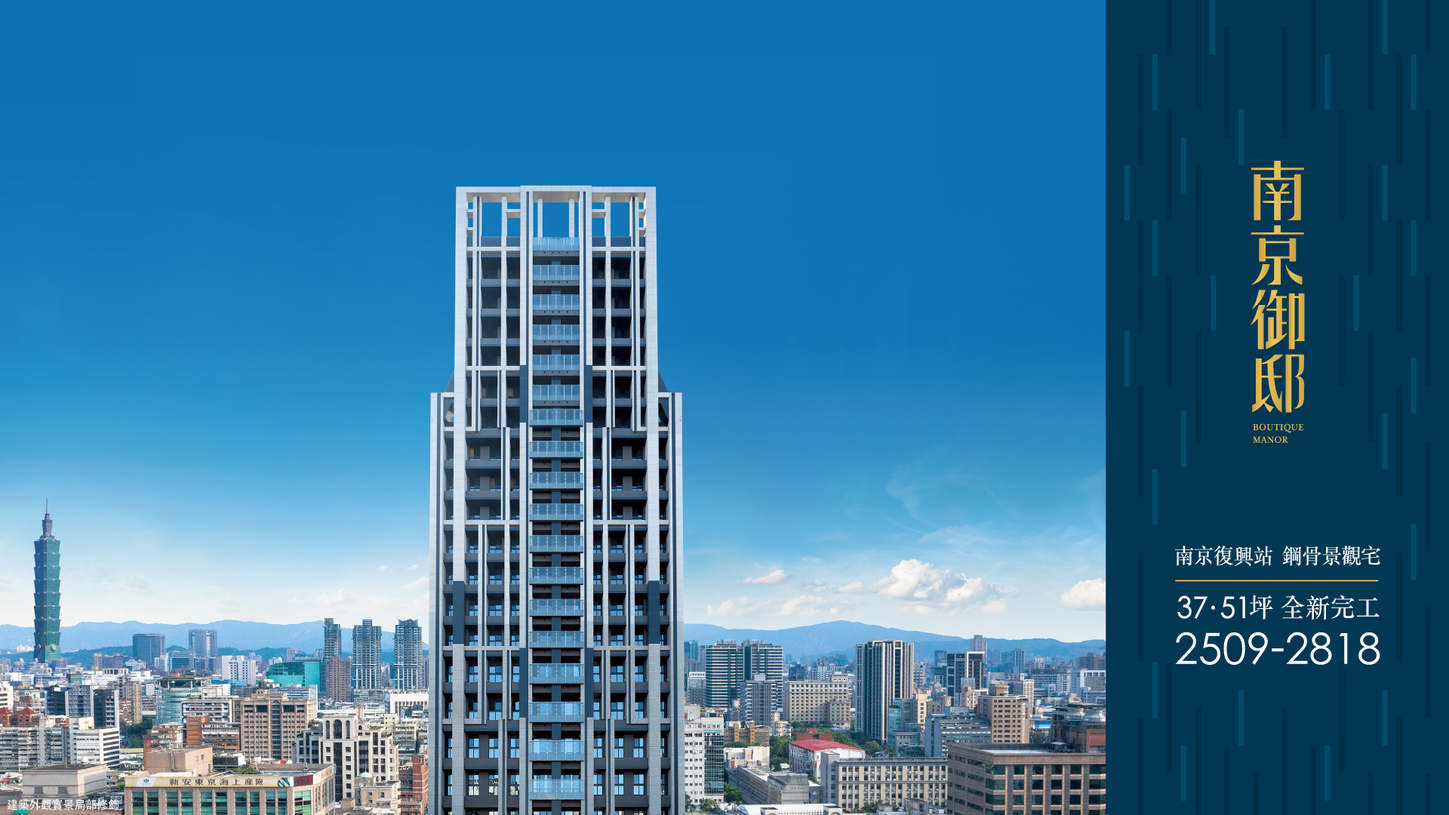
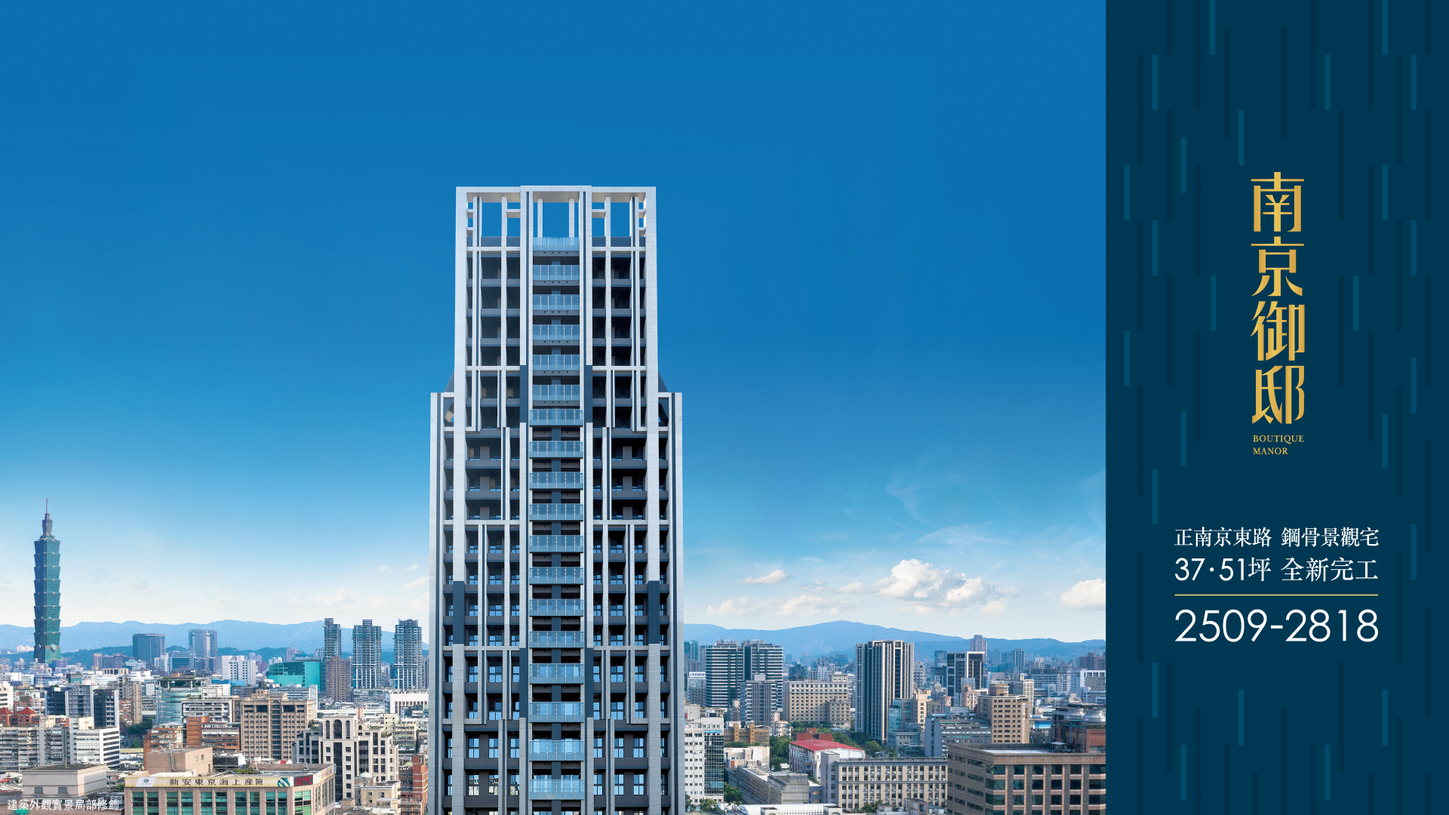
[Fix] 主視覺更換，修改文案

Changed region(s): [[0.8125, 0.6417, 0.9688, 0.825], [0.8438, 0.1833, 0.9062, 0.55]]

diff --git a/css/main.min.css b/css/main.min.css
@@ -1,2 +1,2 @@
-@font-face{font-family:MSungHK;src:url(../font/MSungHK-Medium.otf)}*,*::after,*::before{-webkit-box-sizing:border-box;box-sizing:border-box}html{font-size:16px}body{font-family:MSungHK, "微軟正黑體", "Microsoft JhengHei", "Century Gothic", CenturyGothic, AppleGothic, sans-serif}img{display:block}h1{font-family:MSungHK, "微軟正黑體", "Microsoft JhengHei", "Century Gothic", CenturyGothic, AppleGothic, sans-serif;font-weight:600;font-size:35px;color:#fff;letter-spacing:0.1px}h6{font-family:MSungHK, "微軟正黑體", "Microsoft JhengHei", "Century Gothic", CenturyGothic, AppleGothic, sans-serif;font-weight:300;font-size:16px;color:#fff}h3{margin-bottom:24px;color:#fff;font-size:32px;text-align:center}p{margin:0}.fontHei{font-family:"微軟正黑體", "Microsoft JhengHei", "Century Gothic", CenturyGothic, AppleGothic, sans-serif}.text_dark{color:#595757}.d_flex{display:-webkit-box;display:-ms-flexbox;display:flex;-webkit-box-pack:justify;-ms-flex-pack:justify;justify-content:space-between;-webkit-box-align:center;-ms-flex-align:center;align-items:center}.justify_start{-webkit-box-pack:start;-ms-flex-pack:start;justify-content:flex-start}.wrap{-ms-flex-wrap:wrap;flex-wrap:wrap}.bg_gold{background-color:#bf9d5a}.mt_3{margin-top:1.5rem}.mt_4{margin-top:2rem}.mb_3{margin-bottom:1.5rem}.mb_4{margin-bottom:2rem}.d_none{display:none !important}@media (max-width: 768px){.md_bg_gold{background-color:#bf9d5a}.d_md_none{display:none !important}.d_md_block{display:block !important}.d_md_block img{max-width:100%}.d_md_table{display:table !important}.d_md_table img{max-width:100%}.mb_md_0{margin-bottom:0}}#fp-nav{top:inherit;bottom:50px}#fp-nav ul li a span{background:#ffffff}.fp-controlArrow.fp-next{background-image:url("../images/desktop/Fillet_Right.png");border:none;width:52px;height:150px;opacity:0.5;right:0}.fp-controlArrow.fp-prev{background-image:url("../images/desktop/Fillet_Left.png");border:none;width:52px;height:150px;opacity:0.5;left:0}.fp-controlArrow.fp-next:hover{opacity:1}.fp-controlArrow.fp-prev:hover{opacity:1}@media screen and (max-width: 1280px){.fp-controlArrow.fp-next{border-width:25px 0 25px 21px}.fp-controlArrow.fp-prev{border-width:25px 21px 25px 0}}@media screen and (max-width: 768px){#fp-nav{display:none}}.Sec_img{position:relative;background-repeat:no-repeat;background-size:cover}.Sec0home{height:100vh;background-image:url(../images/desktop/s0bg.jpg);background-position:right bottom}.Sec0home_text{display:none}@media screen and (max-width: 900px){.Sec0home{background-image:url(../images/desktop/s0bg-md.jpg);background-position:center center}}@media screen and (max-width: 768px){.Sec0home_m{position:relative;height:100%;background-image:url(../images/mobile/m-s0bg-bg.jpg);background-position:55% center}.Sec0home_m::before{content:'';display:block;width:20%;max-width:120px;height:200px;background-image:url(../images/mobile/m-s0bg-1.png);background-repeat:no-repeat;background-size:contain;position:absolute;top:5%;left:5%;z-index:1}.Sec0home_m::after{content:'';display:block;width:50%;max-width:340px;height:180px;background-image:url(../images/mobile/m-s0bg-2.png);background-repeat:no-repeat;background-size:contain;position:absolute;top:5%;right:5%;z-index:1}.Sec0home_text{display:block;color:#fff;font-size:12px;position:absolute;bottom:48px;left:8px}}@media screen and (max-width: 480px){.Sec0home_m{background-position:center center;background-size:cover}.Sec0home_m::before{top:1rem;left:1rem}.Sec0home_m::after{top:1rem;right:1rem}}.p360{height:100%}.panorama-container{background-color:#183149}.panorama-container img{top:-40px}@media screen and (min-width: 1920px){.view360.slide{display:none}.Sec1img1{height:100vh;background-image:url(../images/desktop/s1/sec1img01.jpg);background-position:right -40px}}@media (orientation: landscape){.view360.slide{display:none}.Sec1img1{height:100vh;background-image:url(../images/desktop/s1/sec1img01.jpg);background-position:right -40px}}@media (orientation: portrait){.view360.slide{display:table}.Sec1img1{display:none}}@media screen and (max-width: 768px){.bus-md-bg{background-color:#183149}}.Sec2_img{height:100vh;position:relative;background-repeat:no-repeat;background-size:cover;background-position:left top}.Sec2img1{background-image:url(../images/desktop/s2/sec2img01.jpg)}.Sec2img2{background-image:url(../images/desktop/s2/sec2img02.jpg);background-position:center center}.Sec2img3{background-image:url(../images/desktop/s2/sec2img03.jpg)}.Sec2img4{background-image:url(../images/desktop/s2/sec2img04.jpg)}.Sec2img5{background-image:url(../images/desktop/s2/sec2img05.jpg);background-position:right top}.Sec3_img{height:100vh;position:relative;background-repeat:no-repeat;background-size:cover;background-position:left top}.Sec3img1{background-image:url(../images/desktop/s3/sec3img01.jpg)}.Sec3img2{background-image:url(../images/desktop/s3/sec3img02.jpg)}.Sec3img3{background-image:url(../images/desktop/s3/sec3img03.jpg)}.Sec3img4{background-image:url(../images/desktop/s3/sec3img04.jpg);background-position:right top}.Sec3img5{background-image:url(../images/desktop/s3/sec3img05.jpg)}.Sec3img6{background-image:url(../images/desktop/s3/sec3img06.jpg)}.Sec3img7{background-image:url(../images/desktop/s3/sec3img07.jpg)}.Sec3img8{background-image:url(../images/desktop/s3/sec3img08.jpg)}.Sec3img9{background-image:url(../images/desktop/s3/sec3img09.jpg);background-position:right top}.Sec3img10{background-image:url(../images/desktop/s3/sec3img10.jpg)}.Sec3img11{background-image:url(../images/desktop/s3/sec3img11.jpg)}.Sec3img12{background-image:url(../images/desktop/s3/sec3img12.jpg)}.Sec4_img{height:100vh;position:relative;background-repeat:no-repeat;background-size:cover;background-position:center top}.Sec4img1{background-image:url(../images/desktop/s4/sec4img01.jpg)}.Sec4img2{background-image:url(../images/desktop/s4/sec4img02.jpg)}.Sec4img3{background-image:url(../images/desktop/s4/sec4img03.jpg)}.Sec4img4{background-image:url(../images/desktop/s4/sec4img04.jpg)}.desktop_slide{width:90%;max-width:calc(100% -280px)}.content_box{-webkit-box-flex:1;-ms-flex:1 1 280px;flex:1 1 280px;max-width:280px;height:100vh;display:-webkit-box;display:-ms-flexbox;display:flex;-webkit-box-orient:vertical;-webkit-box-direction:normal;-ms-flex-direction:column;flex-direction:column;-webkit-box-pack:center;-ms-flex-pack:center;justify-content:center;-webkit-box-align:center;-ms-flex-align:center;align-items:center;padding:0 48px;color:#fff;background-color:#003752}.content_box .vertical_write{display:-webkit-box;display:-ms-flexbox;display:flex;-webkit-box-align:center;-ms-flex-align:center;align-items:center;margin-bottom:48px;font-size:24px;-webkit-writing-mode:vertical-lr;-ms-writing-mode:tb-lr;writing-mode:vertical-lr;line-height:1.5}.border_content{padding:48px 0;border-top:1px solid #fff;border-bottom:1px solid #fff;font-weight:normal;text-align:justify;line-height:2}@media (max-width: 768px){.desktop_slide{width:100%}}.Sec5_img{height:100vh;position:relative;background-repeat:no-repeat;background-size:cover;background-position:left top}.Sec5img1{background-image:url(../images/desktop/s5/sec5img01.jpg)}.Sec5img2{background-image:url(../images/desktop/s5/sec5img02.jpg)}.Sec5img3{background-image:url(../images/desktop/s5/sec5img03.jpg)}.Sec5img4{background-image:url(../images/desktop/s5/sec5img04.jpg)}.group_slide_container{display:-webkit-box;display:-ms-flexbox;display:flex}.Sec6_img{-webkit-box-flex:1;-ms-flex:1 1 calc(100% - 280px);flex:1 1 calc(100% - 280px);height:100vh;position:relative;background-repeat:no-repeat;background-size:cover;background-position:right top}.Sec6img1{background-image:url(../images/desktop/s6/sec6img01.jpg)}.Sec6img2{background-image:url(../images/desktop/s6/sec6img02.jpg)}.Sec6img3{background-image:url(../images/desktop/s6/sec6img03.jpg)}.Sec6img4{background-image:url(../images/desktop/s6/sec6img04.jpg)}.Sec6img5{background-image:url(../images/desktop/s6/sec6img05.jpg)}.Sec6_content{-webkit-box-flex:1;-ms-flex:1 1 280px;flex:1 1 280px;max-width:280px;height:100vh;display:-webkit-box;display:-ms-flexbox;display:flex;position:relative;-webkit-box-pack:center;-ms-flex-pack:center;justify-content:center;-webkit-box-align:center;-ms-flex-align:center;align-items:center;-webkit-box-orient:vertical;-webkit-box-direction:normal;-ms-flex-direction:column;flex-direction:column}.main_content{max-width:200px;margin-bottom:3rem;color:#595757}.main_content img{max-width:100%}.Sec6_content_img{margin-bottom:1rem}.Sec6_content_title{margin-bottom:1rem;font-size:20px}.Sec6_content_title.bd_bottom{padding-bottom:1rem;border-bottom:1px solid #bf9d5a}.Sec6_content_title span{letter-spacing:-2px}.Sec6_content_text{font-size:14px;line-height:1.5;text-align:justify}.pos_title{width:100%;max-width:200px;color:#bf9d5a;font-size:26px;line-height:1;white-space:nowrap;position:absolute;bottom:7%;letter-spacing:-1.5px}.pos_title.init_space{letter-spacing:initial}@media screen and (max-width: 768px){.section_md_bg{background-color:#bf9d5a}.group_slide img{max-width:100%}}.slide_content{max-width:460px;position:absolute;color:#fff;top:5rem}.slide_content.pos_right{right:3.5rem}.slide_content.pos_left{left:3.5rem}.slide_content.pos_bottom{top:initial;bottom:6rem}.slide_content .slide_title{margin-bottom:1.5rem;font-size:24px}.slide_content .slide_text{font-size:14px;line-height:1.8}.slide_content .slide_heading{font-size:32px}.slide_content .slide_heading_gold{color:#bf9d5a;font-size:52px;line-height:1}@media screen and (max-width: 768px){.card_heading{position:absolute;bottom:4rem;left:1.5rem}.card_heading .slide_heading{font-size:20px;color:#fff}.card_heading .slide_heading_gold{color:#bf9d5a;font-size:36px;line-height:1;letter-spacing:-1px}}.bg_repeat{background:url(../images/desktop/Bg_PC_01.jpg) center top repeat-y;background-size:contain}.intro{margin-bottom:100px}.intro a{color:#ffcc00}.table_wrapper{max-width:680px;margin:0 auto}.table_wrapper .table{width:100%}.table_wrapper h3{margin:0;color:#fff;font-size:24px;line-height:2.4rem;text-align:left}.table_wrapper td{color:#fff;border-bottom:1px solid rgba(255,255,255,0.5);font-size:18px;line-height:2.4rem}.google_map{max-width:100%;height:30vh;position:relative}.google_map iframe{width:100%;max-width:100%;height:100%;position:absolute;top:0;bottom:0;left:0;right:0}@media (max-width: 768px){.intro{padding-top:100px;padding-left:1.5rem;padding-right:1.5rem}.google_map{height:30vh}}@media (max-width: 480px){.table_wrapper h3{font-size:18px}.table_wrapper tbody tr td{padding:8px 0;font-size:12px}.intro{padding:0 1rem;margin-bottom:0}}.form_wrapper{max-width:710px;margin:0 auto}.form_title{margin-bottom:2rem;color:#fff;font-weight:bold}.form-control{height:auto;margin-bottom:1rem;font-size:1rem}.policy{margin-bottom:1rem;color:#fff;line-height:1.5}.form-check-label{margin-bottom:1.5rem;color:#fff;font-weight:normal;cursor:pointer}.form-check-label a{padding-left:4px;color:#ffcc00}.form-check-label a:hover{text-decoration:underline}.btn{color:#183149;border-radius:4px;background-color:#fff;font-family:MSungHK, "微軟正黑體", "Microsoft JhengHei", "Century Gothic", CenturyGothic, AppleGothic, sans-serif;font-size:20px;font-weight:bold;-webkit-transition:all .1s ease-in;transition:all .1s ease-in;cursor:pointer}.btn:hover{color:#183149;background-color:#ffcc00}.btn_secondary{color:#fff;background-color:#337ab7;border:0;font-weight:normal}@media (max-width: 996px){.btn_secondary{margin-bottom:1rem}}@media (max-width: 480px){.form_title{margin:0;margin-bottom:1rem;font-size:22px}.form-control,.btn_secondary{margin-bottom:.5rem}.form-control,.btn,.btn_secondary{font-size:15px}.policy{margin-bottom:8px;font-size:12px;letter-spacing:-1px}.form-check-label{margin-bottom:12px;font-size:12px}}.card{padding:1.5rem;color:#595757;background-color:#fff}.card_title{margin-bottom:1.5rem;font-size:1.6rem;text-align:center;line-height:1.5}.card_content{margin-bottom:1rem;padding:0 2rem;font-size:1.1rem;line-height:1.6}.card_gold{padding:1.5rem;color:#fff;background-color:#BF9D5A}.card_gold .card_title{margin-top:2rem}.card_gold .card_title.extra{margin-top:.5rem}.card_gold .card_content{margin-bottom:2rem}.card_bg_blue{color:#fff;background-color:#183149}@media (max-width: 480px){.card,.card_gold{padding:1rem}.card_title{margin-bottom:1rem;font-size:18px}.card_content{padding:0 1rem;font-size:12px}.card_gold .card_title{margin-top:0}.letter_space{letter-spacing:-2px}.letter_space__plus{letter-spacing:-4px}.letter_space__plus2{letter-spacing:-5px}}.img_grid{-webkit-box-flex:1;-ms-flex:1 1 calc(100% - 280px);flex:1 1 calc(100% - 280px);height:100vh;display:-ms-grid;display:grid;grid-gap:4px;-ms-grid-columns:1fr 1fr 1fr 1fr;grid-template-columns:1fr 1fr 1fr 1fr;-ms-grid-rows:1fr 1fr 1fr 1fr;grid-template-rows:1fr 1fr 1fr 1fr;grid-template-areas:"G1 G1 G2 G2" "G1 G1 G2 G2" "G1 G1 G3 G3" "G1 G1 G3 G3"}.img_grid__2{-webkit-box-flex:1;-ms-flex:1 1 calc(100% - 280px);flex:1 1 calc(100% - 280px);height:100vh;display:-ms-grid;display:grid;grid-gap:4px;-ms-grid-columns:1fr 1fr 1fr 1fr;grid-template-columns:1fr 1fr 1fr 1fr;-ms-grid-rows:1fr 1fr 1fr 1fr;grid-template-rows:1fr 1fr 1fr 1fr;grid-template-areas:"G1 G1 G3 G3" "G1 G1 G3 G3" "G2 G2 G4 G4" "G2 G2 G4 G4"}.img_grid__3{-webkit-box-flex:1;-ms-flex:1 1 calc(100% - 280px);flex:1 1 calc(100% - 280px);height:100vh;display:-ms-grid;display:grid;grid-gap:4px;-ms-grid-columns:1fr 1fr 1fr 1fr;grid-template-columns:1fr 1fr 1fr 1fr;-ms-grid-rows:1fr 1fr 1fr 1fr;grid-template-rows:1fr 1fr 1fr 1fr;grid-template-areas:"G1 G1 G2 G2" "G1 G1 G2 G2" "G1 G1 G2 G2" "G1 G1 G2 G2"}.g_img{background-repeat:no-repeat;background-position:50% 50%;background-size:cover;overflow:hidden}.g_img img{width:auto;height:100%}.g1_1{-ms-grid-row:1;-ms-grid-row-span:4;-ms-grid-column:1;-ms-grid-column-span:2;grid-area:G1}.g1_2{-ms-grid-row:1;-ms-grid-row-span:4;-ms-grid-column:3;-ms-grid-column-span:2;grid-area:G2}.g1_3{-ms-grid-row:1;-ms-grid-row-span:2;-ms-grid-column:3;-ms-grid-column-span:2;grid-area:G3}.g1_4{-ms-grid-row:3;-ms-grid-row-span:2;-ms-grid-column:3;-ms-grid-column-span:2;grid-area:G4}.p1img_1{background-image:url(../images/desktop/s6/g1-1.jpg)}.p1img_2{background-image:url(../images/desktop/s6/g1-2.jpg)}.p1img_3{background-image:url(../images/desktop/s6/g1-3.jpg)}.p2img_1{background-image:url(../images/desktop/s6/g2-1.jpg)}.p2img_2{background-image:url(../images/desktop/s6/g2-2.jpg)}.p2img_3{background-image:url(../images/desktop/s6/g2-3.jpg)}.p3img_1{background-image:url(../images/desktop/s6/g3-1.jpg)}.p3img_2{background-image:url(../images/desktop/s6/g3-2.jpg)}.p3img_3{background-image:url(../images/desktop/s6/g3-3.jpg)}.p3img_4{background-image:url(../images/desktop/s6/g3-4.jpg)}.p4img_1{background-image:url(../images/desktop/s6/g4-1.jpg)}.p4img_2{background-image:url(../images/desktop/s6/g4-2.jpg)}.p4img_3{background-image:url(../images/desktop/s6/g4-3.jpg)}.p5img_1{background-image:url(../images/desktop/s6/g5-1.jpg)}.p5img_2{background-image:url(../images/desktop/s6/g5-2.jpg)}.footer{display:-webkit-box;display:-ms-flexbox;display:flex;-webkit-box-pack:justify;-ms-flex-pack:justify;justify-content:space-between;-webkit-box-align:center;-ms-flex-align:center;align-items:center;width:100%;height:40px;padding:0 48px;position:fixed;bottom:0;background-color:#183149;border-top:1px solid #ffffff;text-align:right;z-index:999}.footer ul{margin:0}.footer ul li{display:inline-block;font-size:17px;color:#ffffff;padding:0 4px;font-family:MSungHK, "微軟正黑體", "Microsoft JhengHei", "Century Gothic", CenturyGothic, AppleGothic, sans-serif}.footer ul li:first-of-type{padding-right:10px;border-right:1px solid #e5c058}.footer a{font-size:17px;color:#ffffff;text-decoration:none}.logo{width:128px;height:auto}.logo img{width:100%;height:100%;-o-object-fit:contain;object-fit:contain}@media screen and (max-width: 768px){.footer{padding:0 24px}}@media screen and (max-width: 480px){.footer{-webkit-box-pack:center;-ms-flex-pack:center;justify-content:center;padding:0 8px}.logo{display:none}}
+@font-face{font-family:MSungHK;src:url(../font/MSungHK-Medium.otf)}*,*::after,*::before{-webkit-box-sizing:border-box;box-sizing:border-box}html{font-size:16px}body{font-family:MSungHK, "微軟正黑體", "Microsoft JhengHei", "Century Gothic", CenturyGothic, AppleGothic, sans-serif}img{display:block}h1{font-family:MSungHK, "微軟正黑體", "Microsoft JhengHei", "Century Gothic", CenturyGothic, AppleGothic, sans-serif;font-weight:600;font-size:35px;color:#fff;letter-spacing:0.1px}h6{font-family:MSungHK, "微軟正黑體", "Microsoft JhengHei", "Century Gothic", CenturyGothic, AppleGothic, sans-serif;font-weight:300;font-size:16px;color:#fff}h3{margin-bottom:24px;color:#fff;font-size:32px;text-align:center}p{margin:0}.fontHei{font-family:"微軟正黑體", "Microsoft JhengHei", "Century Gothic", CenturyGothic, AppleGothic, sans-serif}.text_dark{color:#595757}.d_flex{display:-webkit-box;display:-ms-flexbox;display:flex;-webkit-box-pack:justify;-ms-flex-pack:justify;justify-content:space-between;-webkit-box-align:center;-ms-flex-align:center;align-items:center}.justify_start{-webkit-box-pack:start;-ms-flex-pack:start;justify-content:flex-start}.wrap{-ms-flex-wrap:wrap;flex-wrap:wrap}.bg_gold{background-color:#bf9d5a}.mt_3{margin-top:1.5rem}.mt_4{margin-top:2rem}.mb_3{margin-bottom:1.5rem}.mb_4{margin-bottom:2rem}.d_none{display:none !important}@media (max-width: 768px){.md_bg_gold{background-color:#bf9d5a}.d_md_none{display:none !important}.d_md_block{display:block !important}.d_md_block img{max-width:100%}.d_md_table{display:table !important}.d_md_table img{max-width:100%}.mb_md_0{margin-bottom:0}}#fp-nav{top:inherit;bottom:50px}#fp-nav ul li a span{background:#ffffff}.fp-controlArrow.fp-next{background-image:url("../images/desktop/Fillet_Right.png");border:none;width:52px;height:150px;opacity:0.5;right:0}.fp-controlArrow.fp-prev{background-image:url("../images/desktop/Fillet_Left.png");border:none;width:52px;height:150px;opacity:0.5;left:0}.fp-controlArrow.fp-next:hover{opacity:1}.fp-controlArrow.fp-prev:hover{opacity:1}@media screen and (max-width: 1280px){.fp-controlArrow.fp-next{border-width:25px 0 25px 21px}.fp-controlArrow.fp-prev{border-width:25px 21px 25px 0}}@media screen and (max-width: 768px){#fp-nav{display:none}}.Sec_img{position:relative;background-repeat:no-repeat;background-size:cover}.Sec0home{height:100vh;background-image:url(../images/desktop/s0bg.jpg);background-position:right bottom}.Sec0home_text{display:none}@media screen and (max-width: 900px){.Sec0home{background-image:url(../images/desktop/s0bg-md.jpg);background-position:center center}}@media screen and (max-width: 768px){.Sec0home_m{position:relative;height:100%;background-image:url(../images/mobile/m-s0bg-bg.jpg);background-position:55% center}.Sec0home_m::before{content:'';display:block;width:20%;max-width:120px;height:200px;background-image:url(../images/mobile/m-s0bg-1.png);background-repeat:no-repeat;background-size:contain;position:absolute;top:5%;left:5%;z-index:1}.Sec0home_m::after{content:'';display:block;width:50%;max-width:340px;height:180px;background-image:url(../images/mobile/m-s0bg-2.png);background-repeat:no-repeat;background-size:contain;position:absolute;top:5%;right:5%;z-index:1}.Sec0home_text{display:block;color:#fff;font-size:12px;position:absolute;bottom:48px;left:8px}}@media screen and (max-width: 480px){.Sec0home_m{background-position:center center;background-size:cover}.Sec0home_m::before{top:1rem;left:1rem;margin:10px}.Sec0home_m::after{top:1rem;right:1rem}}.p360{height:100%}.panorama-container{background-color:#183149}.panorama-container img{top:-40px}@media screen and (min-width: 1920px){.view360.slide{display:none}.Sec1img1{height:100vh;background-image:url(../images/desktop/s1/sec1img01.jpg);background-position:right -40px}}@media (orientation: landscape){.view360.slide{display:none}.Sec1img1{height:100vh;background-image:url(../images/desktop/s1/sec1img01.jpg);background-position:right -40px}}@media (orientation: portrait){.view360.slide{display:table}.Sec1img1{display:none}}@media screen and (max-width: 768px){.bus-md-bg{background-color:#183149}}.Sec2_img{height:100vh;position:relative;background-repeat:no-repeat;background-size:cover;background-position:left top}.Sec2img1{background-image:url(../images/desktop/s2/sec2img01.jpg)}.Sec2img2{background-image:url(../images/desktop/s2/sec2img02.jpg);background-position:center center}.Sec2img3{background-image:url(../images/desktop/s2/sec2img03.jpg)}.Sec2img4{background-image:url(../images/desktop/s2/sec2img04.jpg)}.Sec2img5{background-image:url(../images/desktop/s2/sec2img05.jpg);background-position:right top}.Sec3_img{height:100vh;position:relative;background-repeat:no-repeat;background-size:cover;background-position:left top}.Sec3img1{background-image:url(../images/desktop/s3/sec3img01.jpg)}.Sec3img2{background-image:url(../images/desktop/s3/sec3img02.jpg)}.Sec3img3{background-image:url(../images/desktop/s3/sec3img03.jpg)}.Sec3img4{background-image:url(../images/desktop/s3/sec3img04.jpg);background-position:right top}.Sec3img5{background-image:url(../images/desktop/s3/sec3img05.jpg)}.Sec3img6{background-image:url(../images/desktop/s3/sec3img06.jpg)}.Sec3img7{background-image:url(../images/desktop/s3/sec3img07.jpg)}.Sec3img8{background-image:url(../images/desktop/s3/sec3img08.jpg)}.Sec3img9{background-image:url(../images/desktop/s3/sec3img09.jpg);background-position:right top}.Sec3img10{background-image:url(../images/desktop/s3/sec3img10.jpg)}.Sec3img11{background-image:url(../images/desktop/s3/sec3img11.jpg)}.Sec3img12{background-image:url(../images/desktop/s3/sec3img12.jpg)}.Sec4_img{height:100vh;position:relative;background-repeat:no-repeat;background-size:cover;background-position:center top}.Sec4img1{background-image:url(../images/desktop/s4/sec4img01.jpg)}.Sec4img2{background-image:url(../images/desktop/s4/sec4img02.jpg)}.Sec4img3{background-image:url(../images/desktop/s4/sec4img03.jpg)}.Sec4img4{background-image:url(../images/desktop/s4/sec4img04.jpg)}.desktop_slide{width:90%;max-width:calc(100% -280px)}.content_box{-webkit-box-flex:1;-ms-flex:1 1 280px;flex:1 1 280px;max-width:280px;height:100vh;display:-webkit-box;display:-ms-flexbox;display:flex;-webkit-box-orient:vertical;-webkit-box-direction:normal;-ms-flex-direction:column;flex-direction:column;-webkit-box-pack:center;-ms-flex-pack:center;justify-content:center;-webkit-box-align:center;-ms-flex-align:center;align-items:center;padding:0 48px;color:#fff;background-color:#003752}.content_box .vertical_write{display:-webkit-box;display:-ms-flexbox;display:flex;-webkit-box-align:center;-ms-flex-align:center;align-items:center;margin-bottom:48px;font-size:24px;-webkit-writing-mode:vertical-lr;-ms-writing-mode:tb-lr;writing-mode:vertical-lr;line-height:1.5}.border_content{padding:48px 0;border-top:1px solid #fff;border-bottom:1px solid #fff;font-weight:normal;text-align:justify;line-height:2}@media (max-width: 768px){.desktop_slide{width:100%}}.Sec5_img{height:100vh;position:relative;background-repeat:no-repeat;background-size:cover;background-position:left top}.Sec5img1{background-image:url(../images/desktop/s5/sec5img01.jpg)}.Sec5img2{background-image:url(../images/desktop/s5/sec5img02.jpg)}.Sec5img3{background-image:url(../images/desktop/s5/sec5img03.jpg)}.Sec5img4{background-image:url(../images/desktop/s5/sec5img04.jpg)}.group_slide_container{display:-webkit-box;display:-ms-flexbox;display:flex}.Sec6_img{-webkit-box-flex:1;-ms-flex:1 1 calc(100% - 280px);flex:1 1 calc(100% - 280px);height:100vh;position:relative;background-repeat:no-repeat;background-size:cover;background-position:right top}.Sec6img1{background-image:url(../images/desktop/s6/sec6img01.jpg)}.Sec6img2{background-image:url(../images/desktop/s6/sec6img02.jpg)}.Sec6img3{background-image:url(../images/desktop/s6/sec6img03.jpg)}.Sec6img4{background-image:url(../images/desktop/s6/sec6img04.jpg)}.Sec6img5{background-image:url(../images/desktop/s6/sec6img05.jpg)}.Sec6_content{-webkit-box-flex:1;-ms-flex:1 1 280px;flex:1 1 280px;max-width:280px;height:100vh;display:-webkit-box;display:-ms-flexbox;display:flex;position:relative;-webkit-box-pack:center;-ms-flex-pack:center;justify-content:center;-webkit-box-align:center;-ms-flex-align:center;align-items:center;-webkit-box-orient:vertical;-webkit-box-direction:normal;-ms-flex-direction:column;flex-direction:column}.main_content{max-width:200px;margin-bottom:3rem;color:#595757}.main_content img{max-width:100%}.Sec6_content_img{margin-bottom:1rem}.Sec6_content_title{margin-bottom:1rem;font-size:20px}.Sec6_content_title.bd_bottom{padding-bottom:1rem;border-bottom:1px solid #bf9d5a}.Sec6_content_title span{letter-spacing:-2px}.Sec6_content_text{font-size:14px;line-height:1.5;text-align:justify}.pos_title{width:100%;max-width:200px;color:#bf9d5a;font-size:26px;line-height:1;white-space:nowrap;position:absolute;bottom:7%;letter-spacing:-1.5px}.pos_title.init_space{letter-spacing:initial}@media screen and (max-width: 768px){.section_md_bg{background-color:#bf9d5a}.group_slide img{max-width:100%}}.slide_content{max-width:460px;position:absolute;color:#fff;top:5rem}.slide_content.pos_right{right:3.5rem}.slide_content.pos_left{left:3.5rem}.slide_content.pos_bottom{top:initial;bottom:6rem}.slide_content .slide_title{margin-bottom:1.5rem;font-size:24px}.slide_content .slide_text{font-size:14px;line-height:1.8}.slide_content .slide_heading{font-size:32px}.slide_content .slide_heading_gold{color:#bf9d5a;font-size:52px;line-height:1}@media screen and (max-width: 768px){.card_heading{position:absolute;bottom:4rem;left:1.5rem}.card_heading .slide_heading{font-size:20px;color:#fff}.card_heading .slide_heading_gold{color:#bf9d5a;font-size:36px;line-height:1;letter-spacing:-1px}}.bg_repeat{background:url(../images/desktop/Bg_PC_01.jpg) center top repeat-y;background-size:contain}.intro{margin-bottom:100px}.intro a{color:#ffcc00}.table_wrapper{max-width:680px;margin:0 auto}.table_wrapper .table{width:100%}.table_wrapper h3{margin:0;color:#fff;font-size:24px;line-height:2.4rem;text-align:left}.table_wrapper td{color:#fff;border-bottom:1px solid rgba(255,255,255,0.5);font-size:18px;line-height:2.4rem}.google_map{max-width:100%;height:30vh;position:relative}.google_map iframe{width:100%;max-width:100%;height:100%;position:absolute;top:0;bottom:0;left:0;right:0}@media (max-width: 768px){.intro{padding-top:100px;padding-left:1.5rem;padding-right:1.5rem}.google_map{height:30vh}}@media (max-width: 480px){.table_wrapper h3{font-size:18px}.table_wrapper tbody tr td{padding:8px 0;font-size:12px}.intro{padding:0 1rem;margin-bottom:0}}.form_wrapper{max-width:710px;margin:0 auto}.form_title{margin-bottom:2rem;color:#fff;font-weight:bold}.form-control{height:auto;margin-bottom:1rem;font-size:1rem}.policy{margin-bottom:1rem;color:#fff;line-height:1.5}.form-check-label{margin-bottom:1.5rem;color:#fff;font-weight:normal;cursor:pointer}.form-check-label a{padding-left:4px;color:#ffcc00}.form-check-label a:hover{text-decoration:underline}.btn{color:#183149;border-radius:4px;background-color:#fff;font-family:MSungHK, "微軟正黑體", "Microsoft JhengHei", "Century Gothic", CenturyGothic, AppleGothic, sans-serif;font-size:20px;font-weight:bold;-webkit-transition:all .1s ease-in;transition:all .1s ease-in;cursor:pointer}.btn:hover{color:#183149;background-color:#ffcc00}.btn_secondary{color:#fff;background-color:#337ab7;border:0;font-weight:normal}@media (max-width: 996px){.btn_secondary{margin-bottom:1rem}}@media (max-width: 480px){.form_title{margin:0;margin-bottom:1rem;font-size:22px}.form-control,.btn_secondary{margin-bottom:.5rem}.form-control,.btn,.btn_secondary{font-size:15px}.policy{margin-bottom:8px;font-size:12px;letter-spacing:-1px}.form-check-label{margin-bottom:12px;font-size:12px}}.card{padding:1.5rem;color:#595757;background-color:#fff}.card_title{margin-bottom:1.5rem;font-size:1.6rem;text-align:center;line-height:1.5}.card_content{margin-bottom:1rem;padding:0 2rem;font-size:1.1rem;line-height:1.6}.card_gold{padding:1.5rem;color:#fff;background-color:#BF9D5A}.card_gold .card_title{margin-top:2rem}.card_gold .card_title.extra{margin-top:.5rem}.card_gold .card_content{margin-bottom:2rem}.card_bg_blue{color:#fff;background-color:#183149}@media (max-width: 480px){.card,.card_gold{padding:1rem}.card_title{margin-bottom:1rem;font-size:18px}.card_content{padding:0 1rem;font-size:12px}.card_gold .card_title{margin-top:0}.letter_space{letter-spacing:-2px}.letter_space__plus{letter-spacing:-4px}.letter_space__plus2{letter-spacing:-5px}}.img_grid{-webkit-box-flex:1;-ms-flex:1 1 calc(100% - 280px);flex:1 1 calc(100% - 280px);height:100vh;display:-ms-grid;display:grid;grid-gap:4px;-ms-grid-columns:1fr 1fr 1fr 1fr;grid-template-columns:1fr 1fr 1fr 1fr;-ms-grid-rows:1fr 1fr 1fr 1fr;grid-template-rows:1fr 1fr 1fr 1fr;grid-template-areas:"G1 G1 G2 G2" "G1 G1 G2 G2" "G1 G1 G3 G3" "G1 G1 G3 G3"}.img_grid__2{-webkit-box-flex:1;-ms-flex:1 1 calc(100% - 280px);flex:1 1 calc(100% - 280px);height:100vh;display:-ms-grid;display:grid;grid-gap:4px;-ms-grid-columns:1fr 1fr 1fr 1fr;grid-template-columns:1fr 1fr 1fr 1fr;-ms-grid-rows:1fr 1fr 1fr 1fr;grid-template-rows:1fr 1fr 1fr 1fr;grid-template-areas:"G1 G1 G3 G3" "G1 G1 G3 G3" "G2 G2 G4 G4" "G2 G2 G4 G4"}.img_grid__3{-webkit-box-flex:1;-ms-flex:1 1 calc(100% - 280px);flex:1 1 calc(100% - 280px);height:100vh;display:-ms-grid;display:grid;grid-gap:4px;-ms-grid-columns:1fr 1fr 1fr 1fr;grid-template-columns:1fr 1fr 1fr 1fr;-ms-grid-rows:1fr 1fr 1fr 1fr;grid-template-rows:1fr 1fr 1fr 1fr;grid-template-areas:"G1 G1 G2 G2" "G1 G1 G2 G2" "G1 G1 G2 G2" "G1 G1 G2 G2"}.g_img{background-repeat:no-repeat;background-position:50% 50%;background-size:cover;overflow:hidden}.g_img img{width:auto;height:100%}.g1_1{-ms-grid-row:1;-ms-grid-row-span:4;-ms-grid-column:1;-ms-grid-column-span:2;grid-area:G1}.g1_2{-ms-grid-row:1;-ms-grid-row-span:4;-ms-grid-column:3;-ms-grid-column-span:2;grid-area:G2}.g1_3{-ms-grid-row:1;-ms-grid-row-span:2;-ms-grid-column:3;-ms-grid-column-span:2;grid-area:G3}.g1_4{-ms-grid-row:3;-ms-grid-row-span:2;-ms-grid-column:3;-ms-grid-column-span:2;grid-area:G4}.p1img_1{background-image:url(../images/desktop/s6/g1-1.jpg)}.p1img_2{background-image:url(../images/desktop/s6/g1-2.jpg)}.p1img_3{background-image:url(../images/desktop/s6/g1-3.jpg)}.p2img_1{background-image:url(../images/desktop/s6/g2-1.jpg)}.p2img_2{background-image:url(../images/desktop/s6/g2-2.jpg)}.p2img_3{background-image:url(../images/desktop/s6/g2-3.jpg)}.p3img_1{background-image:url(../images/desktop/s6/g3-1.jpg)}.p3img_2{background-image:url(../images/desktop/s6/g3-2.jpg)}.p3img_3{background-image:url(../images/desktop/s6/g3-3.jpg)}.p3img_4{background-image:url(../images/desktop/s6/g3-4.jpg)}.p4img_1{background-image:url(../images/desktop/s6/g4-1.jpg)}.p4img_2{background-image:url(../images/desktop/s6/g4-2.jpg)}.p4img_3{background-image:url(../images/desktop/s6/g4-3.jpg)}.p5img_1{background-image:url(../images/desktop/s6/g5-1.jpg)}.p5img_2{background-image:url(../images/desktop/s6/g5-2.jpg)}.footer{display:-webkit-box;display:-ms-flexbox;display:flex;-webkit-box-pack:justify;-ms-flex-pack:justify;justify-content:space-between;-webkit-box-align:center;-ms-flex-align:center;align-items:center;width:100%;height:40px;padding:0 48px;position:fixed;bottom:0;background-color:#183149;border-top:1px solid #ffffff;text-align:right;z-index:999}.footer ul{margin:0}.footer ul li{display:inline-block;font-size:17px;color:#ffffff;padding:0 4px;font-family:MSungHK, "微軟正黑體", "Microsoft JhengHei", "Century Gothic", CenturyGothic, AppleGothic, sans-serif}.footer ul li:first-of-type{padding-right:10px;border-right:1px solid #e5c058}.footer a{font-size:17px;color:#ffffff;text-decoration:none}.logo{width:128px;height:auto}.logo img{width:100%;height:100%;-o-object-fit:contain;object-fit:contain}@media screen and (max-width: 768px){.footer{padding:0 24px}}@media screen and (max-width: 480px){.footer{-webkit-box-pack:center;-ms-flex-pack:center;justify-content:center;padding:0 8px}.logo{display:none}}
 /*# sourceMappingURL=main.min.css.map */

diff --git a/index.html b/index.html
@@ -150,7 +150,7 @@
         <div class="Sec2_img Sec2img5 d_md_none">
           <div class="slide_content pos_right">
             <p class="slide_title">接軌國際生活圈 中、日、韓一日快速往返</p>
-            <p class="slide_text fontHei">南北向建國高架道路、新生高架道路、東西向市民大道高架道路，橫跨中山、大安、中正、大同、松山、信義、南港七大行政區，東南西北、四通八達，串聯各大平面幹道，速抵熱點商圈。</p>
+            <p class="slide_text fontHei">坐落台北城心，對飛中、日、韓各大主要機場，飛行時間短暫，快速往返國際。3小時前仰望台北天空，10分鐘後漫步東京街頭。敦北林蔭大道一線直駛，一日國際生活圈，隨時啟動。</p>
           </div>
         </div>
         <div class="d_none d_md_block">

diff --git a/css/main.css b/css/main.css
@@ -254,6 +254,7 @@ p {
   .Sec0home_m::before {
     top: 1rem;
     left: 1rem;
+    margin: 10px;
   }
   .Sec0home_m::after {
     top: 1rem;

diff --git a/scss/_section.scss b/scss/_section.scss
@@ -72,6 +72,7 @@
   .Sec0home_m::before {
     top: 1rem;
     left: 1rem;
+    margin: 10px;
   }
   .Sec0home_m::after {
     top: 1rem;
